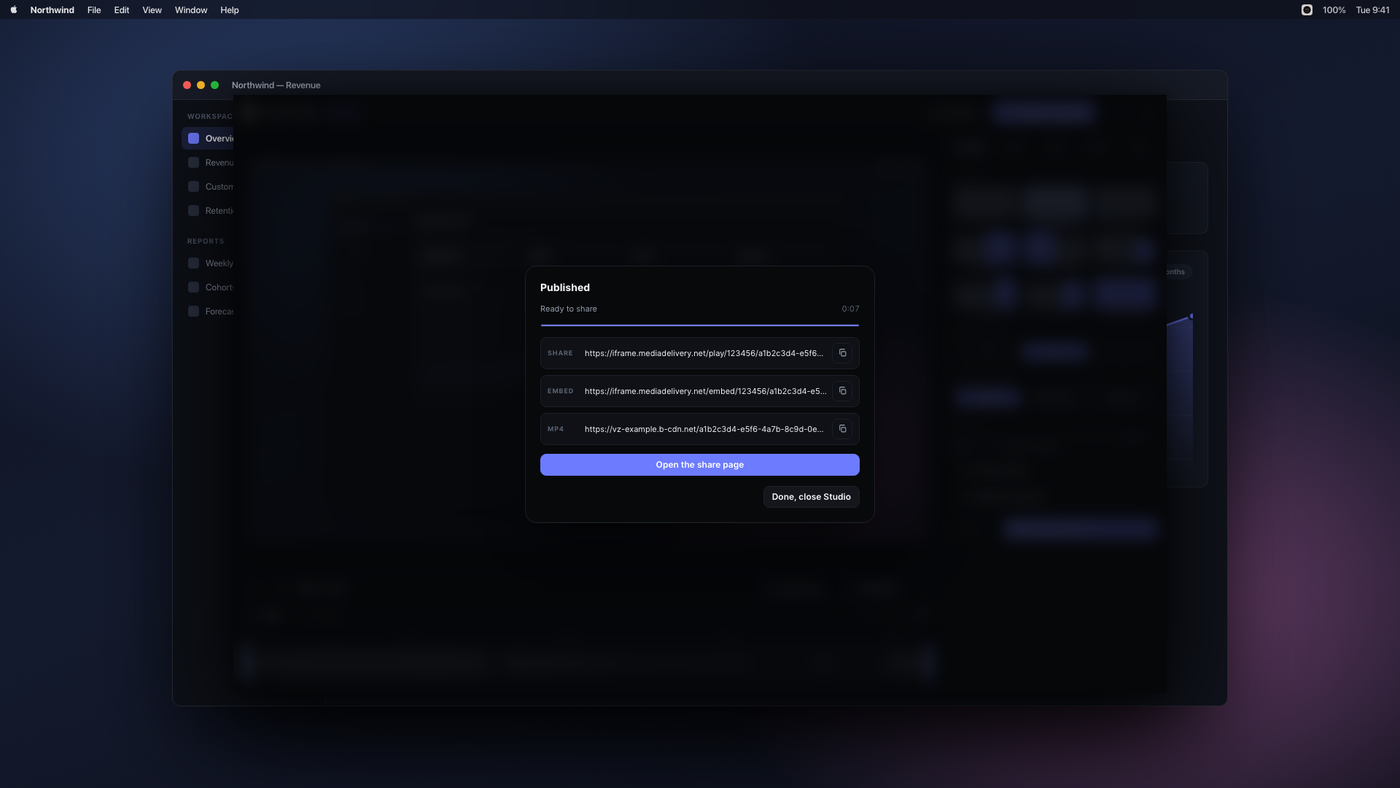
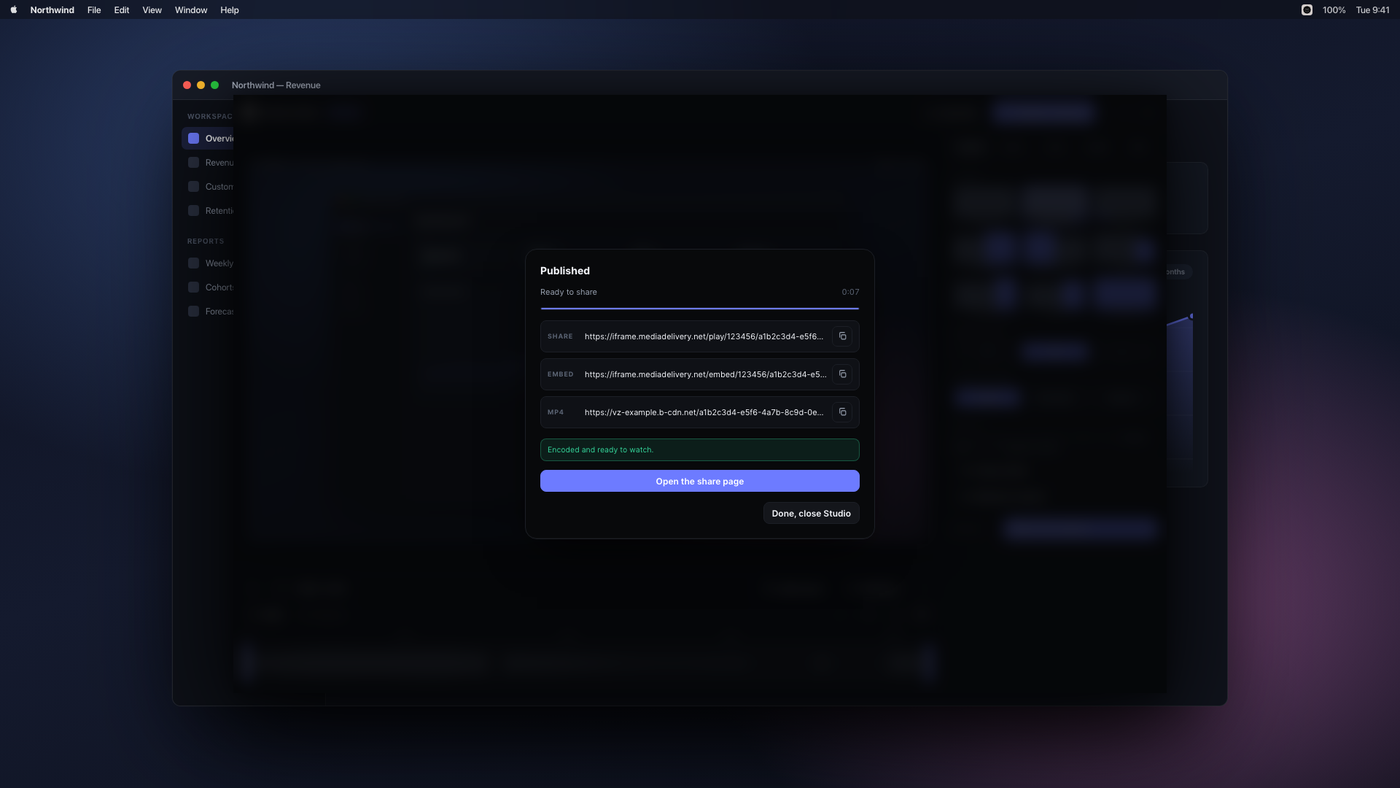
Publish: hand over the share link as soon as the upload lands
Measured against a real 4 second recording: the export is 1.3MB, createVideo
takes 0.6s and the upload takes 1.7s. Bunny then spends 855 to 875 seconds
encoding it. The app was holding the link back for that entire time, and giving
up at ten minutes with "Timed out waiting for Bunny to finish encoding", so a
publish that had completely succeeded was reported as a failure.

The share URL is built from the library id and the guid, and both are known the
moment the upload finishes. So publish now emits an 'uploaded' stage carrying
the links, Studio renders them immediately and copies the share URL, and the
encode wait continues behind them with the note that playback may lag for a
moment. When encoding finishes the note turns green.

Slow encoding is no longer an error. The wait is 30 minutes instead of 10, and
timing out reports 'slow' with the working link rather than throwing away a
good publish. The stall watchdog is switched off once the link is out, because
after that the wait is Bunny's queue rather than a stalled transfer.

Studio renders the links from the progress stream rather than the resolved
promise, so the mock bridge in docs/screenshots emits the same stages.

Changed region(s): [[0.3686, 0.335, 0.6143, 0.6701]]

diff --git a/renderer/studio.js b/renderer/studio.js
@@ -1654,16 +1654,81 @@ const pub = {
 
 $('#pubClose').onclick = () => pub.close();
 
+/* Rendered as soon as the upload lands, then updated when Bunny finishes.
+   Showing it early is the whole point: the URL is real immediately, and
+   waiting on an encode queue to reveal a link that already works is what made
+   publishing feel broken. */
+let shownLinks = null;
+function showLinks(links, { encoded }) {
+  if (!links || !links.share) return;
+  shownLinks = links;
+
+  /* The direct MP4 link needs the CDN hostname, which is unknown until the
+     library has its first video. Drop the row rather than print "null". */
+  const rows = [
+    ['Share', links.share],
+    ['Embed', links.embed],
+    ['MP4', links.mp4],
+  ].filter(([, url]) => Boolean(url));
+
+  const note = encoded
+    ? '<div class="pubnote ok">Encoded and ready to watch.</div>'
+    : '<div class="pubnote">Link works now. Bunny is still encoding, so the first '
+      + 'few seconds of playback may not be available to viewers yet.</div>';
+
+  $('#pubLinks').classList.remove('hide');
+  $('#pubLinks').innerHTML = rows.map(([lbl, url]) => `
+      <div class="link-row">
+        <span class="lbl">${lbl}</span>
+        <span class="url">${url}</span>
+        <button class="icon-btn" data-copy="${url}" title="Copy">
+          <svg viewBox="0 0 24 24"><rect x="9" y="9" width="11" height="11" rx="2"/><path d="M5 15V5a2 2 0 0 1 2-2h10"/></svg>
+        </button>
+      </div>`).join('')
+    + note
+    + `<button class="btn primary" id="openShare" style="margin-top:4px">Open the share page</button>`;
+
+  $$('#pubLinks [data-copy]').forEach((el) => el.onclick = async () => {
+    await cue.copy(el.dataset.copy);
+    el.classList.add('on');
+    setTimeout(() => el.classList.remove('on'), 900);
+  });
+  $('#openShare').onclick = () => cue.openExternal(links.share);
+
+  // the take is on Bunny, so offer the actual exit rather than just
+  // dismissing the overlay back to an editor you are finished with
+  $('#pubClose').textContent = 'Done, close Studio';
+  $('#pubClose').className = 'btn';
+  $('#pubClose').onclick = closeStudio;
+}
+
 cue.onRenderProgress(({ pct }) => pub.set('Rendering your video', pct * 0.55));
-cue.onPublishProgress(({ stage, pct }) => {
+cue.onPublishProgress(({ stage, pct, links }) => {
   const map = {
-    creating: ['Creating the video on Bunny', 58],
+    creating:  ['Creating the video on Bunny', 58],
     uploading: ['Uploading to Bunny', 60 + (pct || 0) * 0.3],
-    encoding: ['Bunny is encoding', 90 + (pct || 0) * 0.1],
-    done: ['Published', 100],
+    uploaded:  ['Uploaded. Your link is ready', 92],
+    encoding:  ['Bunny is encoding', 92 + (pct || 0) * 0.08],
+    done:      ['Ready to share', 100],
+    slow:      ['Still encoding on Bunny', 100],
   };
   const [label, p] = map[stage] || [stage, 60];
   pub.set(label, p);
+
+  if (stage === 'uploaded') {
+    $('#pubTitle').textContent = 'Link ready';
+    showLinks(links, { encoded: false });
+    cue.copy(links.share);          // same as before: the share URL is on the clipboard
+    pub.stallWatch = false;         // the encode queue is Bunny's, not a stalled transfer
+  }
+  if (stage === 'done') {
+    $('#pubTitle').textContent = 'Published';
+    showLinks(links || shownLinks, { encoded: true });
+  }
+  if (stage === 'slow') {
+    $('#pubTitle').textContent = 'Link ready';
+    showLinks(links || shownLinks, { encoded: false });
+  }
 });
 
 $('#publishBtn').onclick = async () => {
@@ -1684,41 +1749,7 @@ $('#publishBtn').onclick = async () => {
     const title = `Smoke recording ${new Date().toLocaleString()}`;
     const { links } = await cue.publish({ file: spec.out, title });
 
-    $('#pubTitle').textContent = 'Published';
-    pub.set('Ready to share', 100);
-
-    /* The direct MP4 link needs the CDN hostname, which is unknown until the
-       library has its first video. Drop the row rather than print "null". */
-    const rows = [
-      ['Share', links.share],
-      ['Embed', links.embed],
-      ['MP4', links.mp4],
-    ].filter(([, url]) => Boolean(url));
-    $('#pubLinks').classList.remove('hide');
-    $('#pubLinks').innerHTML = rows.map(([lbl, url]) => `
-      <div class="link-row">
-        <span class="lbl">${lbl}</span>
-        <span class="url">${url}</span>
-        <button class="icon-btn" data-copy="${url}" title="Copy">
-          <svg viewBox="0 0 24 24"><rect x="9" y="9" width="11" height="11" rx="2"/><path d="M5 15V5a2 2 0 0 1 2-2h10"/></svg>
-        </button>
-      </div>`).join('') +
-      `<button class="btn primary" id="openShare" style="margin-top:4px">Open the share page</button>`;
-
-    $$('#pubLinks [data-copy]').forEach((el) => el.onclick = async () => {
-      await cue.copy(el.dataset.copy);
-      el.classList.add('on');
-      setTimeout(() => el.classList.remove('on'), 900);
-    });
-    $('#openShare').onclick = () => cue.openExternal(links.share);
-
-    // the take is published, so offer the actual exit rather than just
-    // dismissing the overlay back to an editor you are finished with
-    $('#pubClose').textContent = 'Done, close Studio';
-    $('#pubClose').className = 'btn';
-    $('#pubClose').onclick = closeStudio;
-
-    await cue.copy(links.share);
+    // links were already shown the moment the upload landed
     busy = false;
   } catch (e) {
     busy = false;

diff --git a/main/main.js b/main/main.js
@@ -416,22 +416,43 @@ function wireIpc() {
     send('uploading', { pct: 0, guid });
     await bunny.uploadVideo(guid, file, ({ pct, sent, total }) => send('uploading', { pct, sent, total, guid }));
 
-    send('encoding', { pct: 0, guid });
-    const video = await bunny.waitUntilPlayable(guid, {
-      onTick: ({ encodeProgress }) => send('encoding', { pct: encodeProgress || 0, guid }),
-    });
+    /* The share URL is built from the library id and the guid, and both are
+       known the moment the upload lands. Hand it over NOW rather than at the
+       end of encoding. Bunny routinely spends many minutes on a clip that took
+       one second to upload, and making someone watch a progress bar for a link
+       that already exists is what makes publishing feel broken. */
+    const links = bunny.urls(guid);
+    send('uploaded', { pct: 100, guid, links });
 
-    /* An empty library has no video to read the pull zone hostname off, so the
-       first publish is the earliest moment it can be learned. Do it here and
-       the direct MP4 link is available from the second recording onwards. */
-    if (!config.bunny.cdnHostname && video && video.thumbnailUrl) {
-      const host = bunny.hostnameFromThumbnail(video.thumbnailUrl);
-      if (host && config.rememberCdnHostname(host)) console.log('[smoke] learned CDN hostname:', host);
+    send('encoding', { pct: 0, guid, links });
+    let encoded = false;
+    try {
+      const video = await bunny.waitUntilPlayable(guid, {
+        /* Encoding is Bunny's queue, not ours, and a busy queue can sit on a
+           short clip for a quarter of an hour. Waiting longer costs nothing now
+           that the link is already in the user's hands. */
+        timeoutMs: 30 * 60 * 1000,
+        onTick: ({ encodeProgress }) => send('encoding', { pct: encodeProgress || 0, guid, links }),
+      });
+      encoded = true;
+
+      /* An empty library has no video to read the pull zone hostname off, so the
+         first publish is the earliest moment it can be learned. Do it here and
+         the direct MP4 link is available from the second recording onwards. */
+      if (!config.bunny.cdnHostname && video && video.thumbnailUrl) {
+        const host = bunny.hostnameFromThumbnail(video.thumbnailUrl);
+        if (host && config.rememberCdnHostname(host)) console.log('[smoke] learned CDN hostname:', host);
+      }
+      send('done', { pct: 100, guid, links: bunny.urls(guid) });
+    } catch (err) {
+      /* Slow encoding is not a failed publish. The file is on Bunny and the
+         link is real, so report the wait instead of throwing away a good link
+         and telling someone their recording failed. */
+      console.warn('[smoke] still encoding after the wait:', err.message);
+      send('slow', { pct: 100, guid, links, message: err.message });
     }
 
-    const links = bunny.urls(guid);
-    send('done', { pct: 100, guid, links });
-    return { guid, links };
+    return { guid, links, encoded };
   });
 
   /* Cue (the notch app) already runs a localhost listener and its teleprompter

diff --git a/docs/screenshots/src/demo-bridge.js b/docs/screenshots/src/demo-bridge.js
@@ -112,14 +112,22 @@
     reveal: noop,
     saveAs: async () => null,
 
-    publish: async () => ({
-      guid: 'a1b2c3d4-e5f6-4a7b-8c9d-0e1f2a3b4c5d',
-      links: {
+    publish: async () => {
+      /* Studio renders the links from the progress stream now, not from this
+         return value, so the mock has to emit the same stages the real handler
+         does or the overlay comes up empty. */
+      const links = {
         share: 'https://iframe.mediadelivery.net/play/123456/a1b2c3d4-e5f6-4a7b-8c9d-0e1f2a3b4c5d',
         embed: 'https://iframe.mediadelivery.net/embed/123456/a1b2c3d4-e5f6-4a7b-8c9d-0e1f2a3b4c5d',
         mp4:   'https://vz-example.b-cdn.net/a1b2c3d4-e5f6-4a7b-8c9d-0e1f2a3b4c5d/play_720p.mp4',
-      },
-    }),
+      };
+      const guid = 'a1b2c3d4-e5f6-4a7b-8c9d-0e1f2a3b4c5d';
+      window.__demoEmit('publish-progress', { stage: 'uploaded', pct: 100, guid, links });
+      if (!q.has('encoding')) {
+        window.__demoEmit('publish-progress', { stage: 'done', pct: 100, guid, links });
+      }
+      return { guid, links, encoded: !q.has('encoding') };
+    },
     onPublishProgress: on('publish-progress'),
     saveBunny: async () => ({ ok: true, videoCount: 0, libraryId: '123456', cdnHostname: 'vz-example.b-cdn.net' }),
     setupDone: noop, setupCancel: noop,

diff --git a/renderer/studio.html b/renderer/studio.html
@@ -215,6 +215,13 @@
   }
 
   /* ---------- publish overlay ---------- */
+  .pubnote {
+    font-size: 10.5px; line-height: 1.5; color: var(--ink-faint);
+    background: var(--sunken); border: 1px solid var(--pill-edge);
+    border-radius: var(--radius-sm); padding: 7px 9px; margin-top: 6px;
+  }
+  .pubnote.ok { color: var(--good); border-color: rgba(53,214,155,.3); background: rgba(53,214,155,.10); }
+
   #publish {
     position: fixed; inset: 0; background: rgba(5,6,9,.82); backdrop-filter: blur(10px);
     display: none; place-items: center; z-index: 40;
